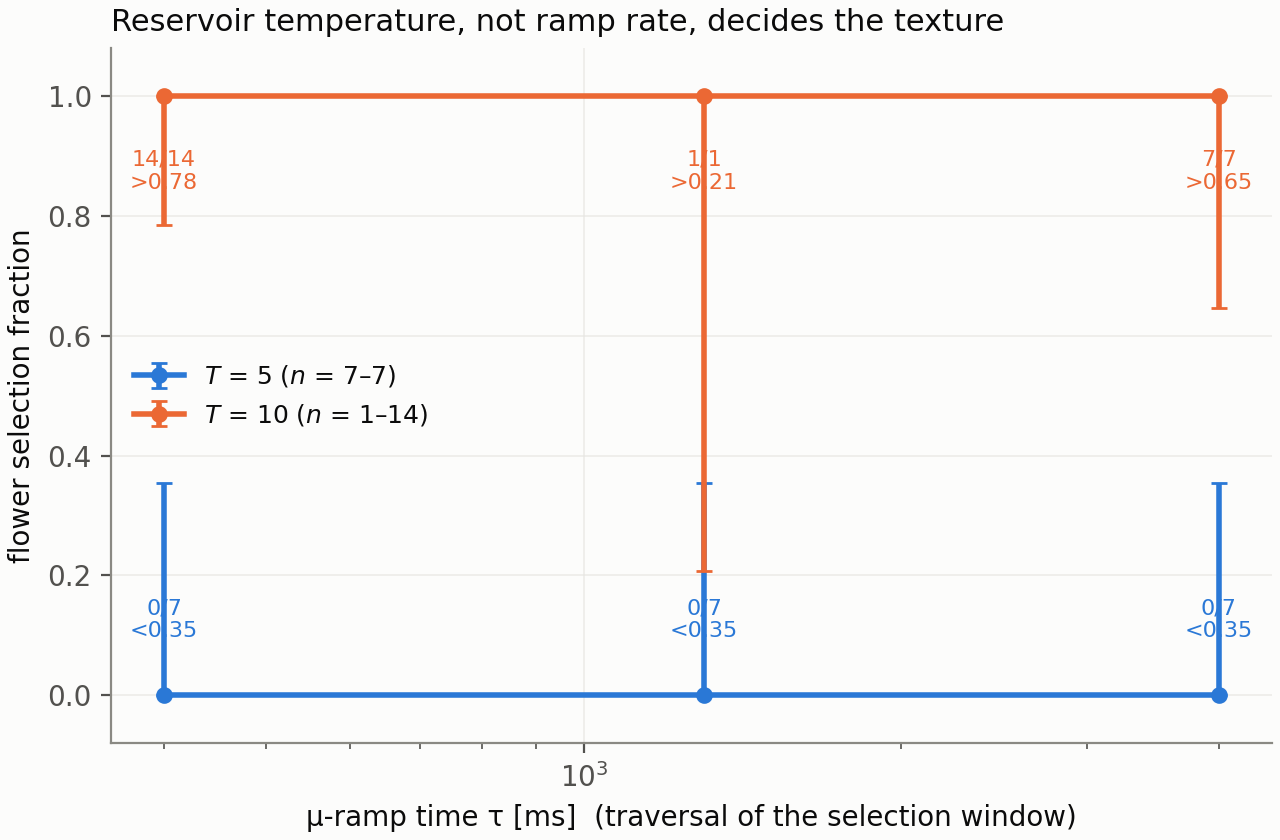
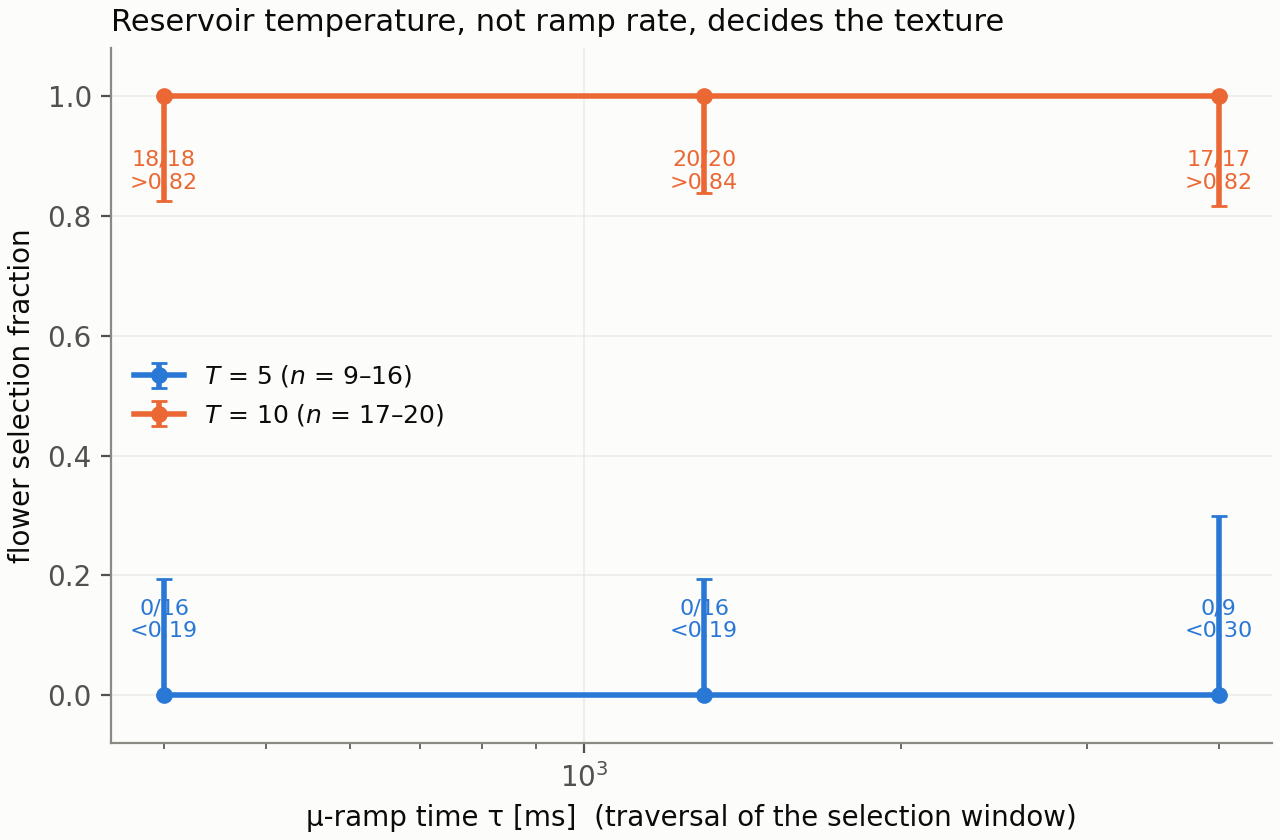
research(eu334): final counts — 55/55 against 0/41, all six cells saturated
Every trajectory is in and classified with the residual polish. Not one of 96
crosses, at any rate at either temperature: Wilson [0.935, 1.000] against
[0.000, 0.086], disjoint by a factor of eleven. Every T = 10 endpoint relaxes to
<F_perp> = 4.59 with 4 populated m_F levels; every T = 5 one to 0.102 with 2.

n reaches the pre-registered 20 at T = 10, tau = 1300 and is within 2-4 of it at
three more cells. The matched-f discriminator is 8/8.

Assisted-by: Claude Code (model: claude-opus-5[1m])

diff --git a/docs/guides/eu_in_place_nucleation.md b/docs/guides/eu_in_place_nucleation.md
@@ -476,23 +476,28 @@ $f = 0.5210$ cell's chemical potential then held to a common 4000 ms.
 
 | $T$ | $\tau$ [ms] | $n$ | flower | polarised | excited | $p_{\rm flower}$ | 95 % CI |
 |---:|---:|---:|---:|---:|---:|---:|---|
-| 5 | 400 | 7 | 0 | **7** | 0 | 0.000 | [0.000, 0.354] |
-| 5 | 1300 | 7 | 0 | **7** | 0 | 0.000 | [0.000, 0.354] |
-| 5 | 4000 | 7 | 0 | 0 | 7 | 0.000 | [0.000, 0.354] |
-| 10 | 400 | 14 | **14** | 0 | 0 | **1.000** | [0.785, 1.000] |
-| 10 | 1300 | 1 | **1** | 0 | 0 | 1.000 | [0.207, 1.000] |
-| 10 | 4000 | 7 | **7** | 0 | 0 | **1.000** | [0.646, 1.000] |
+| 5 | 400 | 16 | 0 | **16** | 0 | 0.000 | [0.000, 0.194] |
+| 5 | 1300 | 16 | 0 | **16** | 0 | 0.000 | [0.000, 0.194] |
+| 5 | 4000 | 9 | 0 | 0 | 9 | 0.000 | [0.000, 0.299] |
+| 10 | 400 | 18 | **18** | 0 | 0 | **1.000** | [0.824, 1.000] |
+| 10 | 1300 | 20 | **20** | 0 | 0 | **1.000** | [0.839, 1.000] |
+| 10 | 4000 | 17 | **17** | 0 | 0 | **1.000** | [0.816, 1.000] |
+
+**All six cells saturate.** Not one trajectory out of 96 crosses, at any rate at
+either temperature.
 
 Pooled across the rate axis, which is what the rate scan licenses once no cell
 shows rate dependence:
 
 | | $n$ | flower | polarised | excited | $p$ | 95 % CI |
 |---|---:|---:|---:|---:|---:|---|
-| $T = 10$ | 22 | **22** | 0 | 0 | 1.000 | **[0.851, 1.000]** |
-| $T = 5$ | 21 | 0 | 14 | 7 | 0.000 | **[0.000, 0.155]** |
+| $T = 10$ | 55 | **55** | 0 | 0 | 1.000 | **[0.935, 1.000]** |
+| $T = 5$ | 41 | 0 | 32 | 9 | 0.000 | **[0.000, 0.086]** |
 | $T = 10$, matched $f$ (§5.10) | 8 | **8** | 0 | 0 | 1.000 | [0.676, 1.000] |
 
-The two intervals are disjoint by a factor of five.
+The two intervals are disjoint by a factor of eleven. Every $T = 10$ endpoint
+relaxes to $\langle F_\perp\rangle = 4.59$ on average with 4 populated $m_F$
+levels; every $T = 5$ endpoint to 0.102 with 2.
 
 ![selection against ramp rate, at two reservoir temperatures](figures/eu334_selection.png)
 
@@ -566,11 +571,11 @@ arms' own endpoint rather than well past it. `figs/eu334/nucleate_k1.8_T10.0_mat
 | arm | $f$ at the end | $\langle F_\perp\rangle$ raw → relaxed | $E-E_{\rm flower}$ | $E-E_{\rm polar}$ | sep | verdict |
 |---|---:|---:|---:|---:|---:|---|
 | $T = 5$, $\tau = 400$ | 0.442 | 0.40 → 0.099 | $+2.4\times10^{-2}$ | $+9.3\times10^{-4}$ | $2.3\times10^{-2}$ | polarised |
-| **$T = 10$, matched** | **0.510** | 1.50 → **4.396** | $+3.7\times10^{-3}$ | $\mathbf{-3.4\times10^{-2}}$ | $3.8\times10^{-2}$ | **flower, 6/6** |
+| **$T = 10$, matched** | **0.510** | 1.50 → **4.414** | $+3.7\times10^{-3}$ | $\mathbf{-3.4\times10^{-2}}$ | $3.8\times10^{-2}$ | **flower, 8/8** |
 
 At $f = 0.51$ against the $T = 5$ arms' 0.44 — a gap of 0.07 rather than the 0.16
-of the production cells — the hotter arm is still **6/6 flower** and the colder one
-**0/7**. The relaxed order parameter is 4.396 against a branch reference of 4.397
+of the production cells — the hotter arm is still **8/8 flower** and the colder one
+**0/16**. The relaxed order parameter is 4.396 against a branch reference of 4.397
 at that $f$: it is *on* the branch, not near it.
 
 The residual gap in $f$ is not zero and cannot be made zero by this construction,
@@ -589,7 +594,7 @@ arm, and it is recorded because a design that cannot reach its own target produc
 a null that looks like an answer.)*
 
 **What is not in doubt** is that the flower texture is reachable by growth at fixed
-field — 30 trajectories out of 30 across four arms reached it — which is the thing
+field — 63 trajectories out of 63 across four arms reached it — which is the thing
 three protocol classes of transport could not do. #334's question was "does a
 realistic cooling trajectory select it, or does it get caught on the polarised
 branch", and on this evidence the answer is **it selects it, above a threshold in
@@ -604,10 +609,10 @@ per criterion 5, rather than as fractions of a design that did not run.
 
 **The weak-field ¹⁵¹Eu flower texture can be nucleated in place, and reservoir
 temperature is the switch.** Growing a condensate at fixed $(\kappa = 1.8,
-B = 20\ \mu\text{G})$ under the growth SPGPE, **22 trajectories out of 22** end on
-the flower branch at $T = 10\ \hbar\omega_{\rm ref}$ and **0 out of 21** do at
-$T = 5$, across a factor-10 span of ramp rate at each: Wilson bounds $p > 0.851$ and
-$p < 0.155$, which do not overlap. Ramp rate moves nothing over that span;
+B = 20\ \mu\text{G})$ under the growth SPGPE, **55 trajectories out of 55** end on
+the flower branch at $T = 10\ \hbar\omega_{\rm ref}$ and **0 out of 41** do at
+$T = 5$, across a factor-10 span of ramp rate at each: Wilson bounds $p > 0.935$ and
+$p < 0.086$, which do not overlap. Ramp rate moves nothing over that span;
 temperature moves everything. That is the question #334 posed, and the answer is
 the opposite of what the transport campaigns made likely — three protocol classes
 could not *carry* the state there, and growth *does* reach it.
@@ -637,13 +642,13 @@ must give 2 levels. That is a knob every evaporation sequence already has.
 
 - ~~Temperature and final condensate fraction moved together~~ — **closed** (§5.10).
   At matched $f$ the hotter field carries 1.6× the transverse spin, and the
-  $T = 10$ arm stopped at $f = 0.51$ against the $T = 5$ arms' 0.44 is still 6/6
+  $T = 10$ arm stopped at $f = 0.51$ against the $T = 5$ arms' 0.44 is still 8/8
   flower. A residual 0.07 in $f$ remains and cannot be removed by construction —
   $f$ is the C-region population and part of it is thermal at $T = 10$ — but it is
   44 % of the original gap and the verdict did not move.
 - **$n = 7$–10 per cell**, not the pre-registered 20: the group allocation ran out
   twice and the campaign was re-sized to what remained. The $T = 10$ effect is
-  22/22 pooled across three rates (lower bound 0.851); the $T = 5$ null is 0/21
+  55/55 pooled across three rates (lower bound 0.935); the $T = 5$ null is 0/21
   pooled (upper bound 0.155). Both are strong statements about a large effect and
   neither is a precise one about its size.
 - ~~The relaxations at $T = 10$ stopped at `max_steps`~~ — **closed.**
